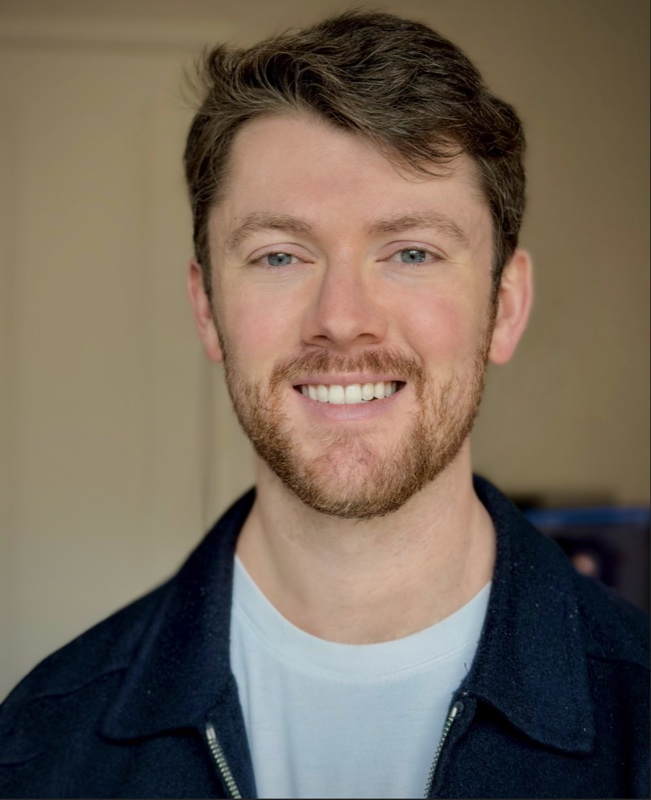
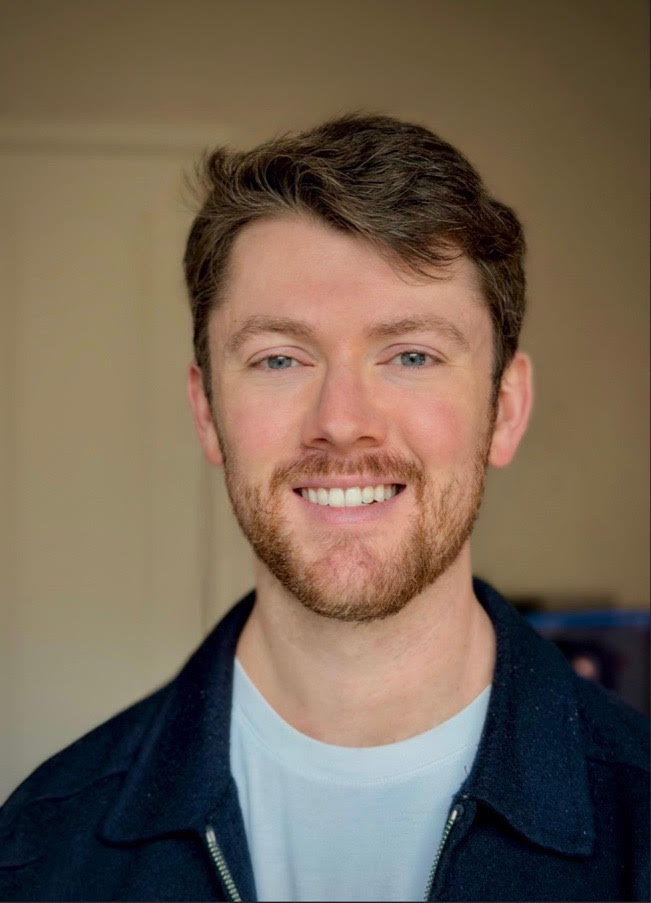
tweaks

diff --git a/readme.md b/readme.md
@@ -86,7 +86,7 @@ Existing files using `layout: default` continue to work and can keep their own M
 - The site uses a brown palette. Each product’s panel retains its own brand colors.
 - The application page links to the Google Form supplied for the program. Update `application_url` in `_config.yml` to change all three application calls to action together.
 - The KADI summer interview is in `_posts/2026-09-30-kadi-summer-2026.md`, reconstructed from the June 18, July 16, and July 31 check-ins. Its product details and usage reflect those calls through July 31.
-- Sam Dooman’s headshot comes from the Brown CS profile linked on his leadership profile. The optimized image is stored locally as `assets/img/sam-dooman.jpg`; his bio is based on the existing site and the Brown CS profile.
+- Sam Dooman’s headshot was supplied for his leadership profile and is stored locally as a compressed JPEG at `assets/img/sam-dooman.jpg`.
 - Sam Kortchmar’s bio and photo were supplied for his leadership profile. His photo is stored locally as `assets/img/sam-kortchmar.png`, alongside links to LinkedIn and RateMate.
 - This is a local draft. No domain changes or publishing have been performed.
 
